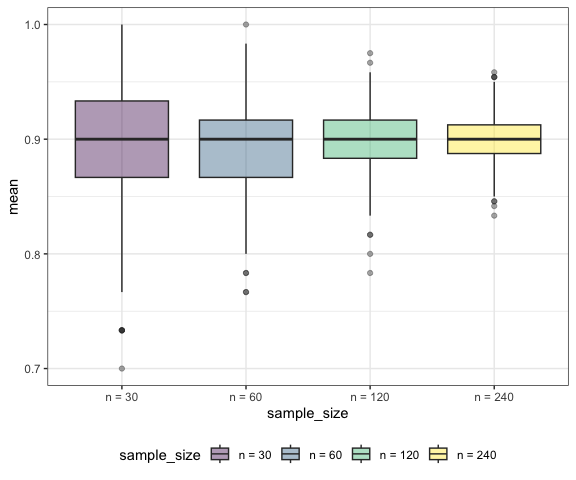
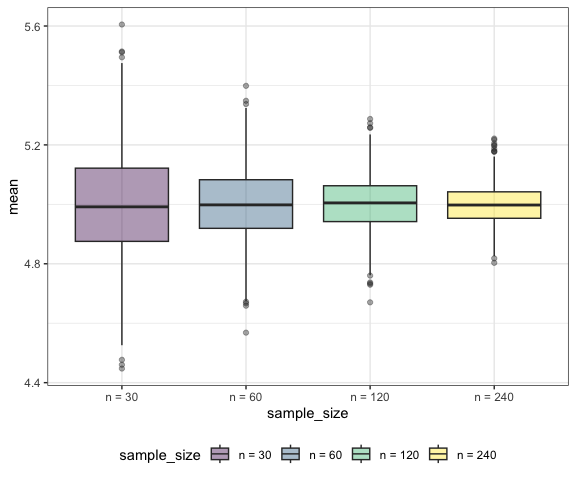
change function back to rnorm sample

diff --git a/simulation.md b/simulation.md
@@ -30,9 +30,9 @@ set.seed(12345)
 # Revisit `sim_mean_sd`
 
 ``` r
-sim_mean_sd = function(n_obs, true_p = 0.9){
+sim_mean_sd = function(n_obs, mu = 5, sigma = 1){
 
-  x_vec = rbinom(n = n_obs, size = 1, prob = true_p)
+  x_vec = rnorm(n = n_obs, mean = mu, sd = sigma)
 
   tibble(
     mean = mean(x_vec),
@@ -49,7 +49,7 @@ sim_mean_sd(n_obs = 30)
     ## # A tibble: 1 × 2
     ##    mean    sd
     ##   <dbl> <dbl>
-    ## 1   0.9 0.305
+    ## 1  5.08 0.938
 
 Let’s iterate to see how this works UNDER REPEATED SAMPLING!!!
 
@@ -79,7 +79,7 @@ sim_results |>
     ## # A tibble: 1 × 2
     ##   mu_hat sd_xbar
     ##    <dbl>   <dbl>
-    ## 1  0.903  0.0518
+    ## 1   5.00   0.180
 
 Use a map function
 
@@ -100,3 +100,5 @@ df_sim |>
 ```
 
 <img src="simulation_files/figure-gfm/unnamed-chunk-4-1.png" width="90%" />
+
+Could easily change function to `rbinom()`
